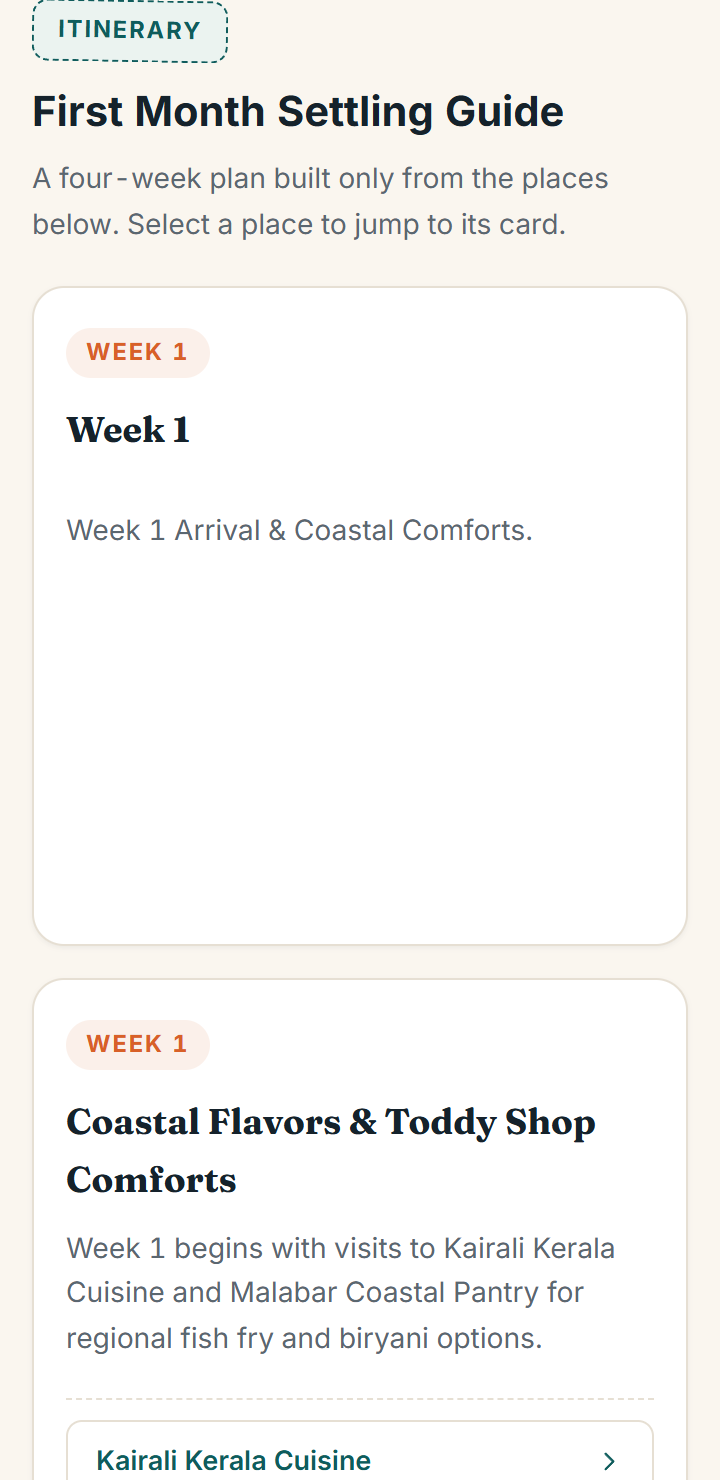
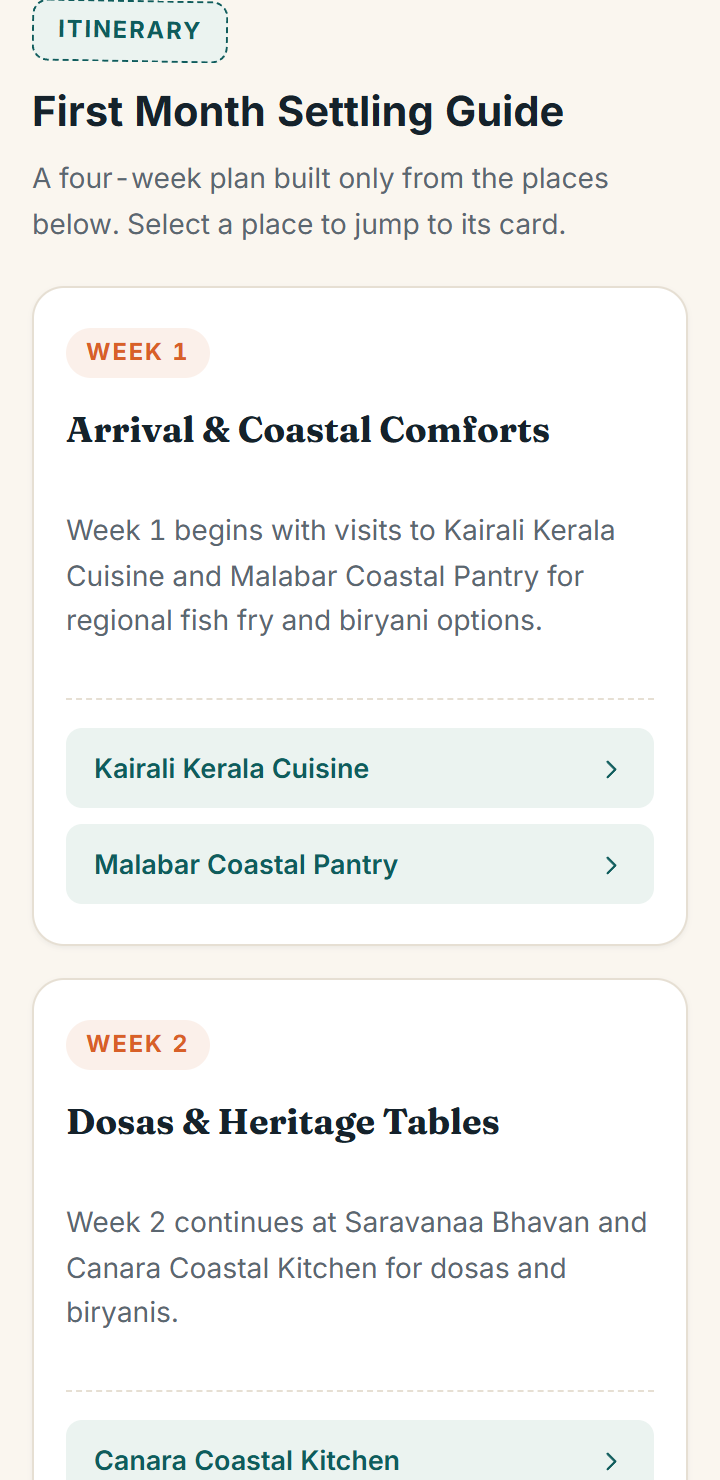
fix(settling-guide): restore place links and category headings in week cards

diff --git a/src/components/FirstMonthPlan.tsx b/src/components/FirstMonthPlan.tsx
@@ -38,42 +38,215 @@ export function FirstMonthPlan({ firstMonthText, categories }: FirstMonthPlanPro
     }
   };
 
-  // Parse into weeks by the "Week N" prefix
-  const weekCards: ParsedWeekCard[] = [];
-  const weekSplitRegex = /(?:^|\b)Week\s*([1-4])(?:\s*[:\-–]\s*|\s+)([\s\S]*?)(?=(?:\bWeek\s*[1-4]|$))/gi;
-  let match: RegExpExecArray | null;
+  const parseWeekCards = (): ParsedWeekCard[] => {
+    const cards: ParsedWeekCard[] = [];
+    const weekSplitRegex = /(?:^|\b)Week\s*([1-4])(?:\s*[:\-–]\s*|\s+)([\s\S]*?)(?=(?:\bWeek\s*[1-4]|$))/gi;
+    let match: RegExpExecArray | null;
 
-  while ((match = weekSplitRegex.exec(firstMonthText)) !== null) {
-    const num = parseInt(match[1], 10);
-    const bodyText = match[2].trim();
-    const fullSentence = `Week ${num} ${bodyText.startsWith(':') || bodyText.startsWith('-') ? bodyText.slice(1).trim() : bodyText}`;
+    while ((match = weekSplitRegex.exec(firstMonthText)) !== null) {
+      const num = parseInt(match[1], 10);
+      const bodyText = match[2].trim();
+      const cleanBody = bodyText.replace(/^[:\-–]\s*/, '').trim();
+      const rawSentence = bodyText.startsWith(':') || bodyText.startsWith('-') || bodyText.startsWith('–')
+        ? `Week ${num}: ${cleanBody}`
+        : `Week ${num} ${cleanBody}`;
+      const fullSentence = rawSentence.replace(/\[cite:?\s*\d*\]/gi, '').trim();
 
-    // Exact match of place names in this sentence
-    const foundPlaces = allPlaces.filter((p) =>
-      fullSentence.toLowerCase().includes(p.name.toLowerCase())
-    );
+      const existingCard = cards.find((c) => c.weekNum === num);
 
-    // FIX 4: Use the title of the category that contains the first place named; if none, just "Week N"
-    let heading = `Week ${num}`;
-    if (foundPlaces.length > 0) {
-      const firstPlace = foundPlaces[0];
-      const parentCategory = categories.find((c) =>
-        c.places.some((p) => p.id === firstPlace.id)
+      // If a card for this week already exists (e.g. "Week 1: Title. Week 1 narrative..."):
+      if (existingCard) {
+        // If existing card had short text, it might have been a title
+        const existingClean = existingCard.sentence.replace(/^Week\s*\d\s*[:\-–]?\s*/i, '').replace(/[.]+$/, '').trim();
+        if (existingClean.length > 0 && existingClean.length < 45 && !existingClean.includes(' begins with') && !existingClean.includes(' visit')) {
+          existingCard.heading = existingClean;
+        }
+
+        // Use the longer, descriptive sentence
+        if (fullSentence.length > existingCard.sentence.length) {
+          existingCard.sentence = fullSentence;
+        } else {
+          existingCard.sentence = `${existingCard.sentence} ${fullSentence}`;
+        }
+
+        // Supplement places and ensure exactly 2 places
+        const extraPlaces = allPlaces.filter((p) =>
+          fullSentence.toLowerCase().includes(p.name.toLowerCase())
+        );
+        const mergedPlaces = [
+          ...extraPlaces,
+          ...existingCard.places.filter((p) => !extraPlaces.some((ep) => ep.id === p.id)),
+        ];
+        existingCard.places = mergedPlaces.slice(0, 2);
+        continue;
+      }
+
+      const weekIdx = num - 1;
+
+      // Check if body starts with a title like "Title. Week N begins..."
+      let derivedTitle = '';
+      const titleMatch = cleanBody.match(/^([A-Z][^.!?\n]{3,40})(?:[.!?]|\s*–)\s*(.*)$/);
+      if (
+        titleMatch &&
+        !titleMatch[1].toLowerCase().startsWith('visit') &&
+        !titleMatch[1].toLowerCase().startsWith('sample') &&
+        !titleMatch[1].toLowerCase().startsWith('begin') &&
+        !titleMatch[1].toLowerCase().startsWith('start')
+      ) {
+        derivedTitle = titleMatch[1].trim();
+      }
+
+      // 1. Direct match: check if place name appears in the sentence
+      let matchedPlaces = allPlaces.filter((p) =>
+        fullSentence.toLowerCase().includes(p.name.toLowerCase())
       );
-      if (parentCategory) {
-        heading = parentCategory.title;
+
+      // 2. Keyword/stem match if direct match didn't find at least 2 places
+      if (matchedPlaces.length < 2) {
+        const existingIds = new Set(matchedPlaces.map((p) => p.id));
+        const keywordMatched = allPlaces.filter((p) => {
+          if (existingIds.has(p.id)) return false;
+          const words = p.name
+            .toLowerCase()
+            .split(/[\s,–\-\(\)\/\&]+/)
+            .filter(
+              (w) =>
+                w.length > 3 &&
+                ![
+                  'restaurant',
+                  'cuisine',
+                  'kitchen',
+                  'house',
+                  'bhavan',
+                  'dhaba',
+                  'dining',
+                  'grill',
+                  'cafe',
+                  'foods',
+                  'market',
+                  'hotel',
+                  'indian',
+                  'south',
+                  'north',
+                  'toronto',
+                  'scarborough',
+                  'markham',
+                ].includes(w)
+            );
+          return words.some((word) => {
+            const re = new RegExp(`\\b${word}\\b`, 'i');
+            return re.test(fullSentence);
+          });
+        });
+        matchedPlaces = [...matchedPlaces, ...keywordMatched];
+      }
+
+      // 3. Guaranteed allocation from corresponding category or allPlaces
+      if (matchedPlaces.length < 2) {
+        const existingIds = new Set(matchedPlaces.map((p) => p.id));
+        const catPlaces = categories[weekIdx]?.places || [];
+        for (const p of catPlaces) {
+          if (!existingIds.has(p.id)) {
+            matchedPlaces.push(p);
+            existingIds.add(p.id);
+            if (matchedPlaces.length >= 2) break;
+          }
+        }
+      }
+
+      if (matchedPlaces.length < 2) {
+        const existingIds = new Set(matchedPlaces.map((p) => p.id));
+        for (const p of allPlaces) {
+          if (!existingIds.has(p.id)) {
+            matchedPlaces.push(p);
+            existingIds.add(p.id);
+            if (matchedPlaces.length >= 2) break;
+          }
+        }
+      }
+
+      const finalPlaces = matchedPlaces.slice(0, 2);
+
+      // Editorial card title: derivedTitle > category title > matched place category
+      let heading = derivedTitle || '';
+      if (!heading && categories[weekIdx]?.title) {
+        heading = categories[weekIdx].title;
+      } else if (!heading && finalPlaces.length > 0) {
+        const parentCategory = categories.find((c) =>
+          c.places.some((p) => p.id === finalPlaces[0].id)
+        );
+        if (parentCategory) {
+          heading = parentCategory.title;
+        }
+      }
+      if (!heading) {
+        heading = 'Featured Culinary Highlights';
+      }
+
+      cards.push({
+        weekNum: num,
+        heading,
+        sentence: fullSentence,
+        places: finalPlaces,
+      });
+    }
+
+    // Fallback if regex found fewer than 2 weeks: parse sentences
+    if (cards.length < 2) {
+      const sentences = firstMonthText
+        .split(/(?<=[.!?])\s+/)
+        .map((s) => s.replace(/\[cite:?\s*\d*\]/gi, '').trim())
+        .filter((s) => s.length > 5);
+
+      if (sentences.length >= 2) {
+        sentences.slice(0, 4).forEach((sent, idx) => {
+          const num = idx + 1;
+          const weekIdx = idx;
+          const cleanSent = sent.startsWith(`Week ${num}`) ? sent : `Week ${num}: ${sent}`;
+
+          let matchedPlaces = allPlaces.filter((p) =>
+            cleanSent.toLowerCase().includes(p.name.toLowerCase())
+          );
+          if (matchedPlaces.length < 2) {
+            const existingIds = new Set(matchedPlaces.map((p) => p.id));
+            const catPlaces = categories[weekIdx]?.places || [];
+            for (const p of catPlaces) {
+              if (!existingIds.has(p.id)) {
+                matchedPlaces.push(p);
+                existingIds.add(p.id);
+                if (matchedPlaces.length >= 2) break;
+              }
+            }
+          }
+          if (matchedPlaces.length < 2) {
+            const existingIds = new Set(matchedPlaces.map((p) => p.id));
+            for (const p of allPlaces) {
+              if (!existingIds.has(p.id)) {
+                matchedPlaces.push(p);
+                existingIds.add(p.id);
+                if (matchedPlaces.length >= 2) break;
+              }
+            }
+          }
+
+          const heading = categories[weekIdx]?.title || 'Featured Culinary Highlights';
+
+          cards.push({
+            weekNum: num,
+            heading,
+            sentence: cleanSent,
+            places: matchedPlaces.slice(0, 2),
+          });
+        });
       }
     }
 
-    weekCards.push({
-      weekNum: num,
-      heading,
-      sentence: fullSentence,
-      places: foundPlaces,
-    });
-  }
+    return cards;
+  };
 
-  // If parsed 4 or more weeks, or at least 2 weeks
+  const weekCards = parseWeekCards();
+
+  // If parsed 2 or more weeks
   if (weekCards.length >= 2) {
     return (
       <section className="settling-guide-section" style={{ marginTop: '24px' }}>
@@ -96,7 +269,7 @@ export function FirstMonthPlan({ firstMonthText, categories }: FirstMonthPlanPro
               <h4 className="week-card-title">{w.heading}</h4>
               <p className="week-card-copy">{w.sentence}</p>
 
-              <div className="week-places-list" style={w.places.length === 0 ? { borderTop: 'none' } : undefined}>
+              <div className="week-places-list">
                 {w.places.map((pl) => (
                   <a
                     key={pl.id}
@@ -107,7 +280,7 @@ export function FirstMonthPlan({ firstMonthText, categories }: FirstMonthPlanPro
                     <span style={{ overflow: 'hidden', textOverflow: 'ellipsis', whiteSpace: 'nowrap' }}>
                       {pl.name}
                     </span>
-                    <svg className="ui-icon" viewBox="0 0 24 24">
+                    <svg className="ui-icon" viewBox="0 0 24 24" aria-hidden="true">
                       <polyline points="9 18 15 12 9 6" />
                     </svg>
                   </a>

diff --git a/src/app/globals.css b/src/app/globals.css
@@ -996,26 +996,35 @@ div[tabindex="0"]:focus-visible {
   margin-top: auto;
   display: flex;
   flex-direction: column;
-  gap: 6px;
-  padding-top: 10px;
+  gap: 8px;
+  padding-top: 14px;
   border-top: 1px dashed var(--color-hairline);
-  min-height: 72px;
+  width: 100%;
 }
 
 .week-place-anchor {
-  font-size: 0.82rem;
+  font-size: 0.84rem;
   font-weight: 600;
   color: var(--color-teal);
+  background: var(--color-teal-light);
   display: inline-flex;
   align-items: center;
   justify-content: space-between;
-  padding: 4px 6px;
+  gap: 8px;
+  padding: 8px 14px;
   border-radius: var(--radius-sm);
-  transition: background var(--transition-fast);
+  width: 100%;
+  box-sizing: border-box;
+  min-height: 40px;
+  text-decoration: none;
+  transition: all var(--transition-fast);
+  touch-action: manipulation;
 }
 
 .week-place-anchor:hover {
-  background: var(--color-teal-light);
+  background: #D8ECE5;
+  color: var(--color-teal);
+  transform: translateX(2px);
 }
 
 /* -------------------------------------------------------------------------
@@ -2049,19 +2058,27 @@ input, select, textarea {
 
   .week-places-list {
     display: flex !important;
-    flex-wrap: wrap !important;
+    flex-direction: column !important;
     gap: 8px !important;
+    width: 100% !important;
+    margin-top: auto !important;
+    padding-top: 14px !important;
+    border-top: 1px dashed var(--color-hairline) !important;
   }
 
   .week-place-anchor {
     min-height: 40px !important;
     padding: 8px 14px !important;
-    border: 1px solid var(--color-hairline) !important;
-    background: var(--bg-surface) !important;
+    border: none !important;
+    background: var(--color-teal-light) !important;
+    color: var(--color-teal) !important;
     display: inline-flex !important;
     align-items: center !important;
     justify-content: space-between !important;
     font-size: 0.84rem !important;
+    width: 100% !important;
+    box-sizing: border-box !important;
+    border-radius: var(--radius-sm) !important;
   }
 
   /* Place Cards */
